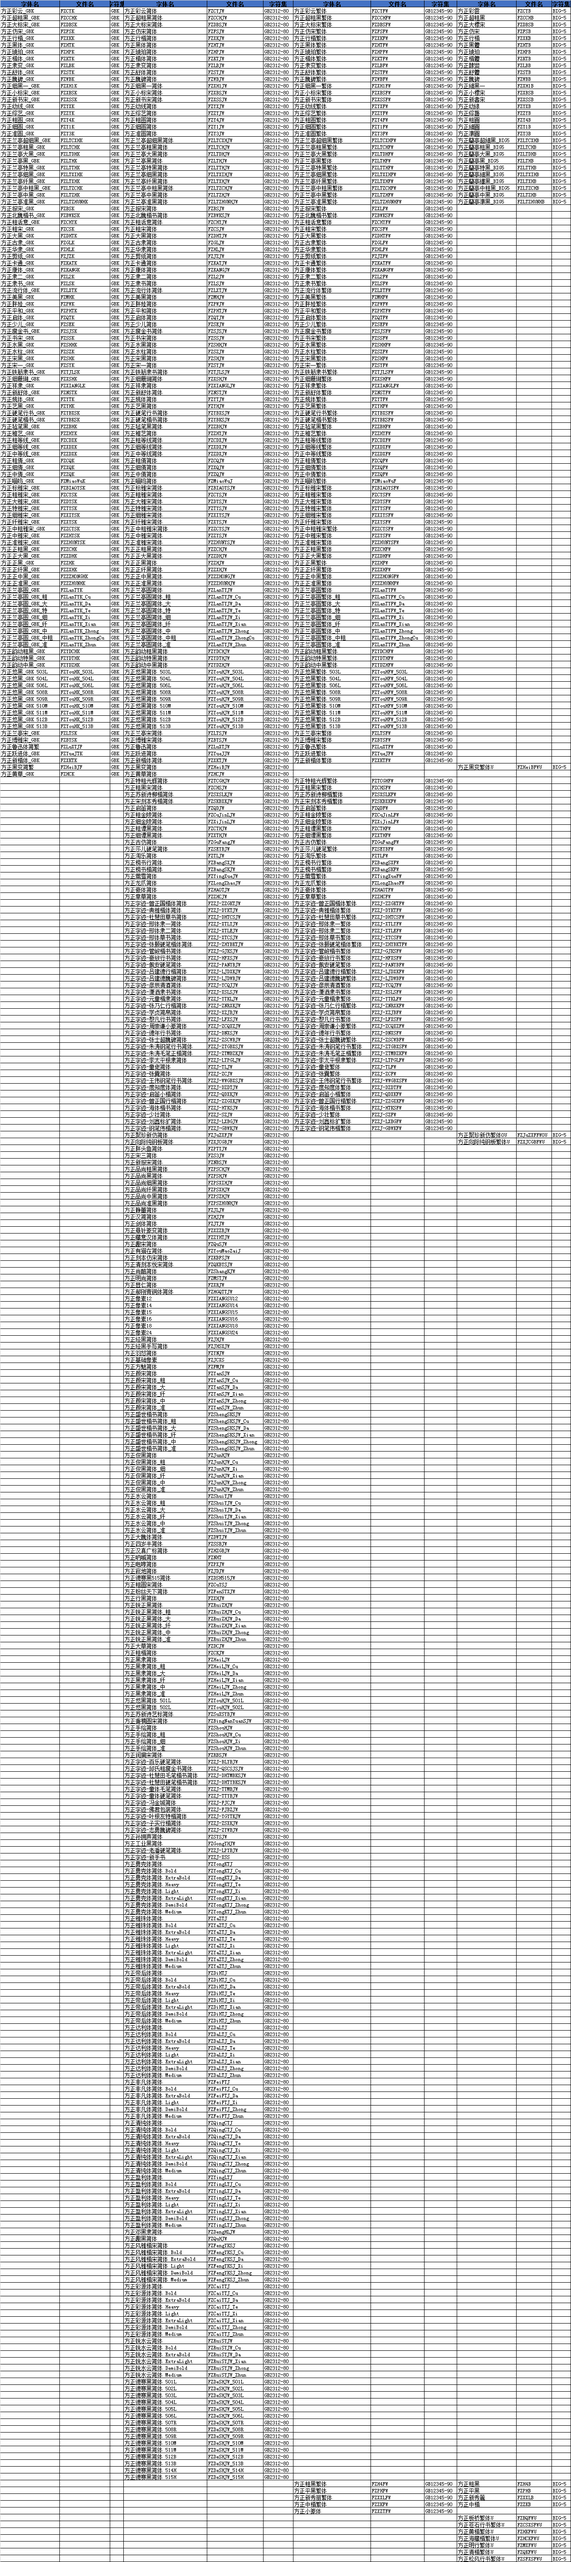
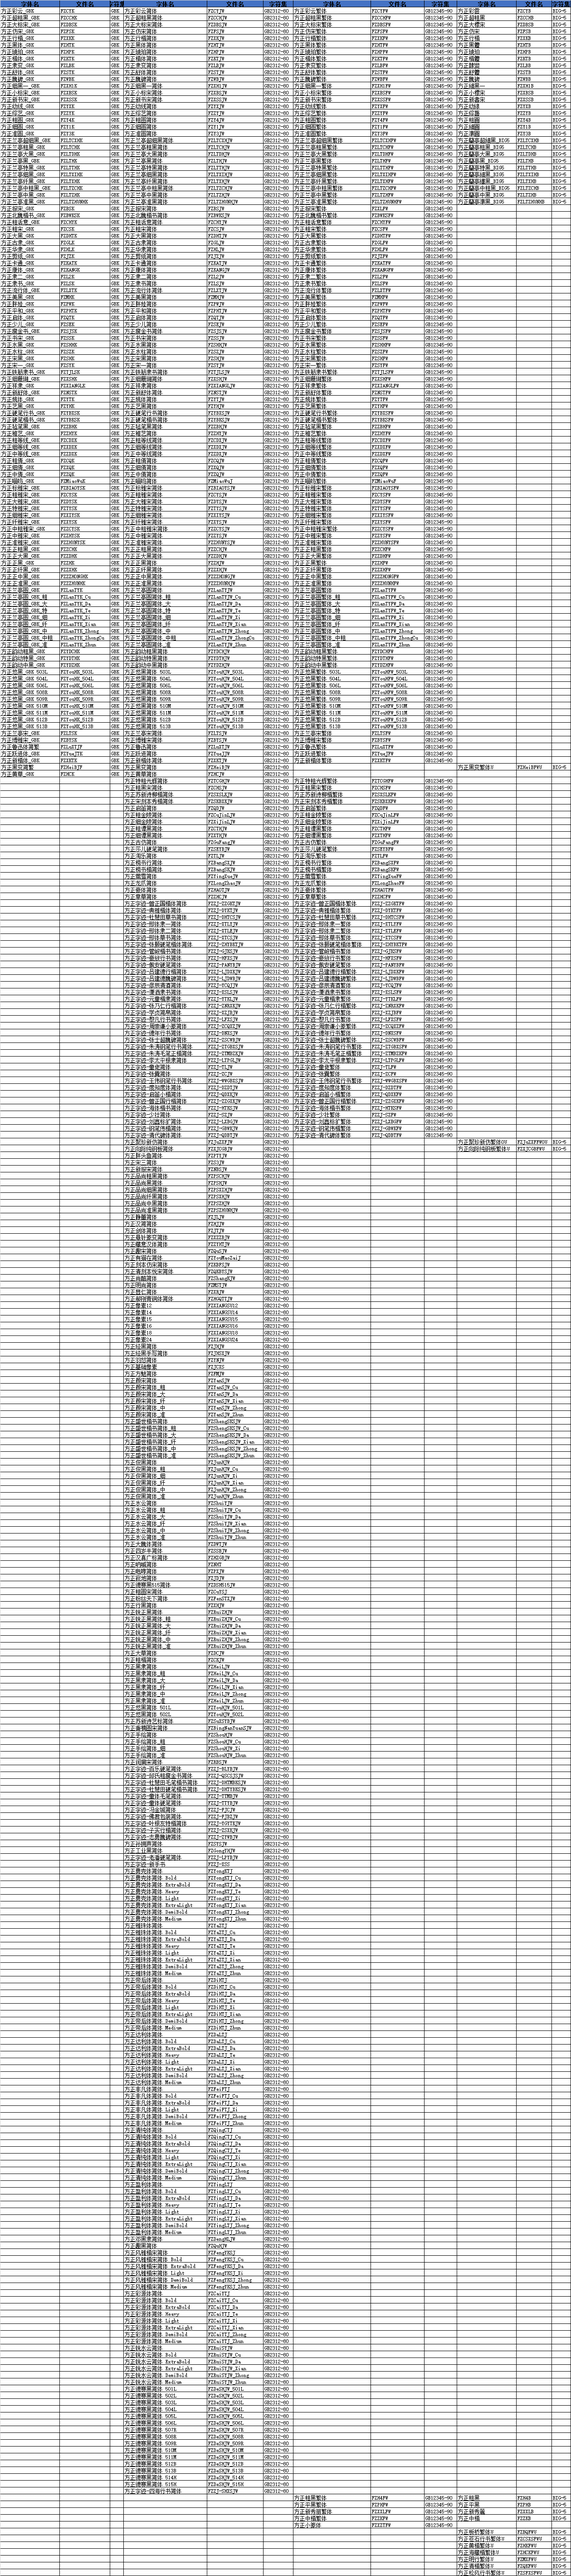
字体上架:方正字迹-清代碑体繁体/方正字迹-清代碑体简体/方正字迹-四海行书简体 字体更新:方正字迹-曾正国行楷繁体/方正字迹-曾正国行楷简体/方正字迹-朱涛毛笔正楷繁体/方正字迹-朱涛毛笔正楷简体

Changed region(s): [[0.0, 0.0, 1.0, 0.9984]]

diff --git a/README.md b/README.md
@@ -12,12 +12,12 @@
 
 方正字体样张:[http://shop.foundertype.com/index.php/Index/downSample.html](http://shop.foundertype.com/index.php/Index/downSample.html)
 
-目前官方商城在售字体688种：
+目前官方商城在售字体691种：
 
 | 字符集     | 字体数     |
 |------------|------------|
-| GB2312-80  | 363        |
-| GB12345-90 | 168        |
+| GB2312-80  | 365        |
+| GB12345-90 | 169        |
 | GBK        | 113        |
 | BIG-5      | 43         |
 |GB18030-2000| 1          |
@@ -201,7 +201,7 @@
 | 方正中雅宋繁体              | FZZYSFW            | GB12345-90 |
 | 方正准雅宋繁体              | FZZHUNYSFW         | GB12345-90 |
 | 方正准圆繁体                | FZY3FW             | GB12345-90 |
-| 方正字迹－曾正国行楷繁体    | FZZJ-ZZGXKFW       | GB12345-90 |
+| 方正字迹-曾正国行楷繁体     | FZZJ-ZZGXKFW       | GB12345-90 |
 | 方正字迹-曾正国楷体繁体     | FZZJ-ZZGKTFW       | GB12345-90 |
 | 方正字迹-德年行书繁体       | FZZJ-DNXSFW        | GB12345-90 |
 | 方正字迹-典雅楷体繁体       | FZZJ-DYKTFW        | GB12345-90 |
@@ -218,6 +218,7 @@
 | 方正字迹-吕建德魏碑繁体     | FZZJ-LJDWBFW       | GB12345-90 |
 | 方正字迹-佩安硬笔繁体       | FZZJ-PANYBFW       | GB12345-90 |
 | 方正字迹-启笛小楷繁体       | FZZJ-QDXKFW        | GB12345-90 |
+| 方正字迹-清代碑体繁体       | FZZJ-QDBTFW        | GB12345-90 |
 | 方正字迹-少壮繁体           | FZZJ-SZFW          | GB12345-90 |
 | 方正字迹-童佬繁体           | FZZJ-TLFW          | GB12345-90 |
 | 方正字迹-王伟钢笔行书繁体   | FZZJ-WWGBXSFW      | GB12345-90 |
@@ -574,8 +575,10 @@
 | 方正字迹-吕建德魏碑简体     | FZZJ-LJDWBJW       | GB2312-80  |
 | 方正字迹-佩安硬笔简体       | FZZJ-PANYBJW       | GB2312-80  |
 | 方正字迹-启笛小楷简体       | FZZJ-QDXKJW        | GB2312-80  |
+| 方正字迹-清代碑体简体       | FZZJ-QDBTJW        | GB2312-80  |
 | 方正字迹-邱氏粗瘦金书简体   | FZZJ-QSCSJSJW      | GB2312-80  |
 | 方正字迹-少壮简体           | FZZJ-SZJW          | GB2312-80  |
+| 方正字迹-四海行书简体       | FZZJ-SHXSJW        | GB2312-80  |
 | 方正字迹-童佬简体           | FZZJ-TLJW          | GB2312-80  |
 | 方正字迹-童体毛笔简体       | FZZJ-TTMBJW        | GB2312-80  |
 | 方正字迹-童体硬笔简体       | FZZJ-TTYBJW        | GB2312-80  |
